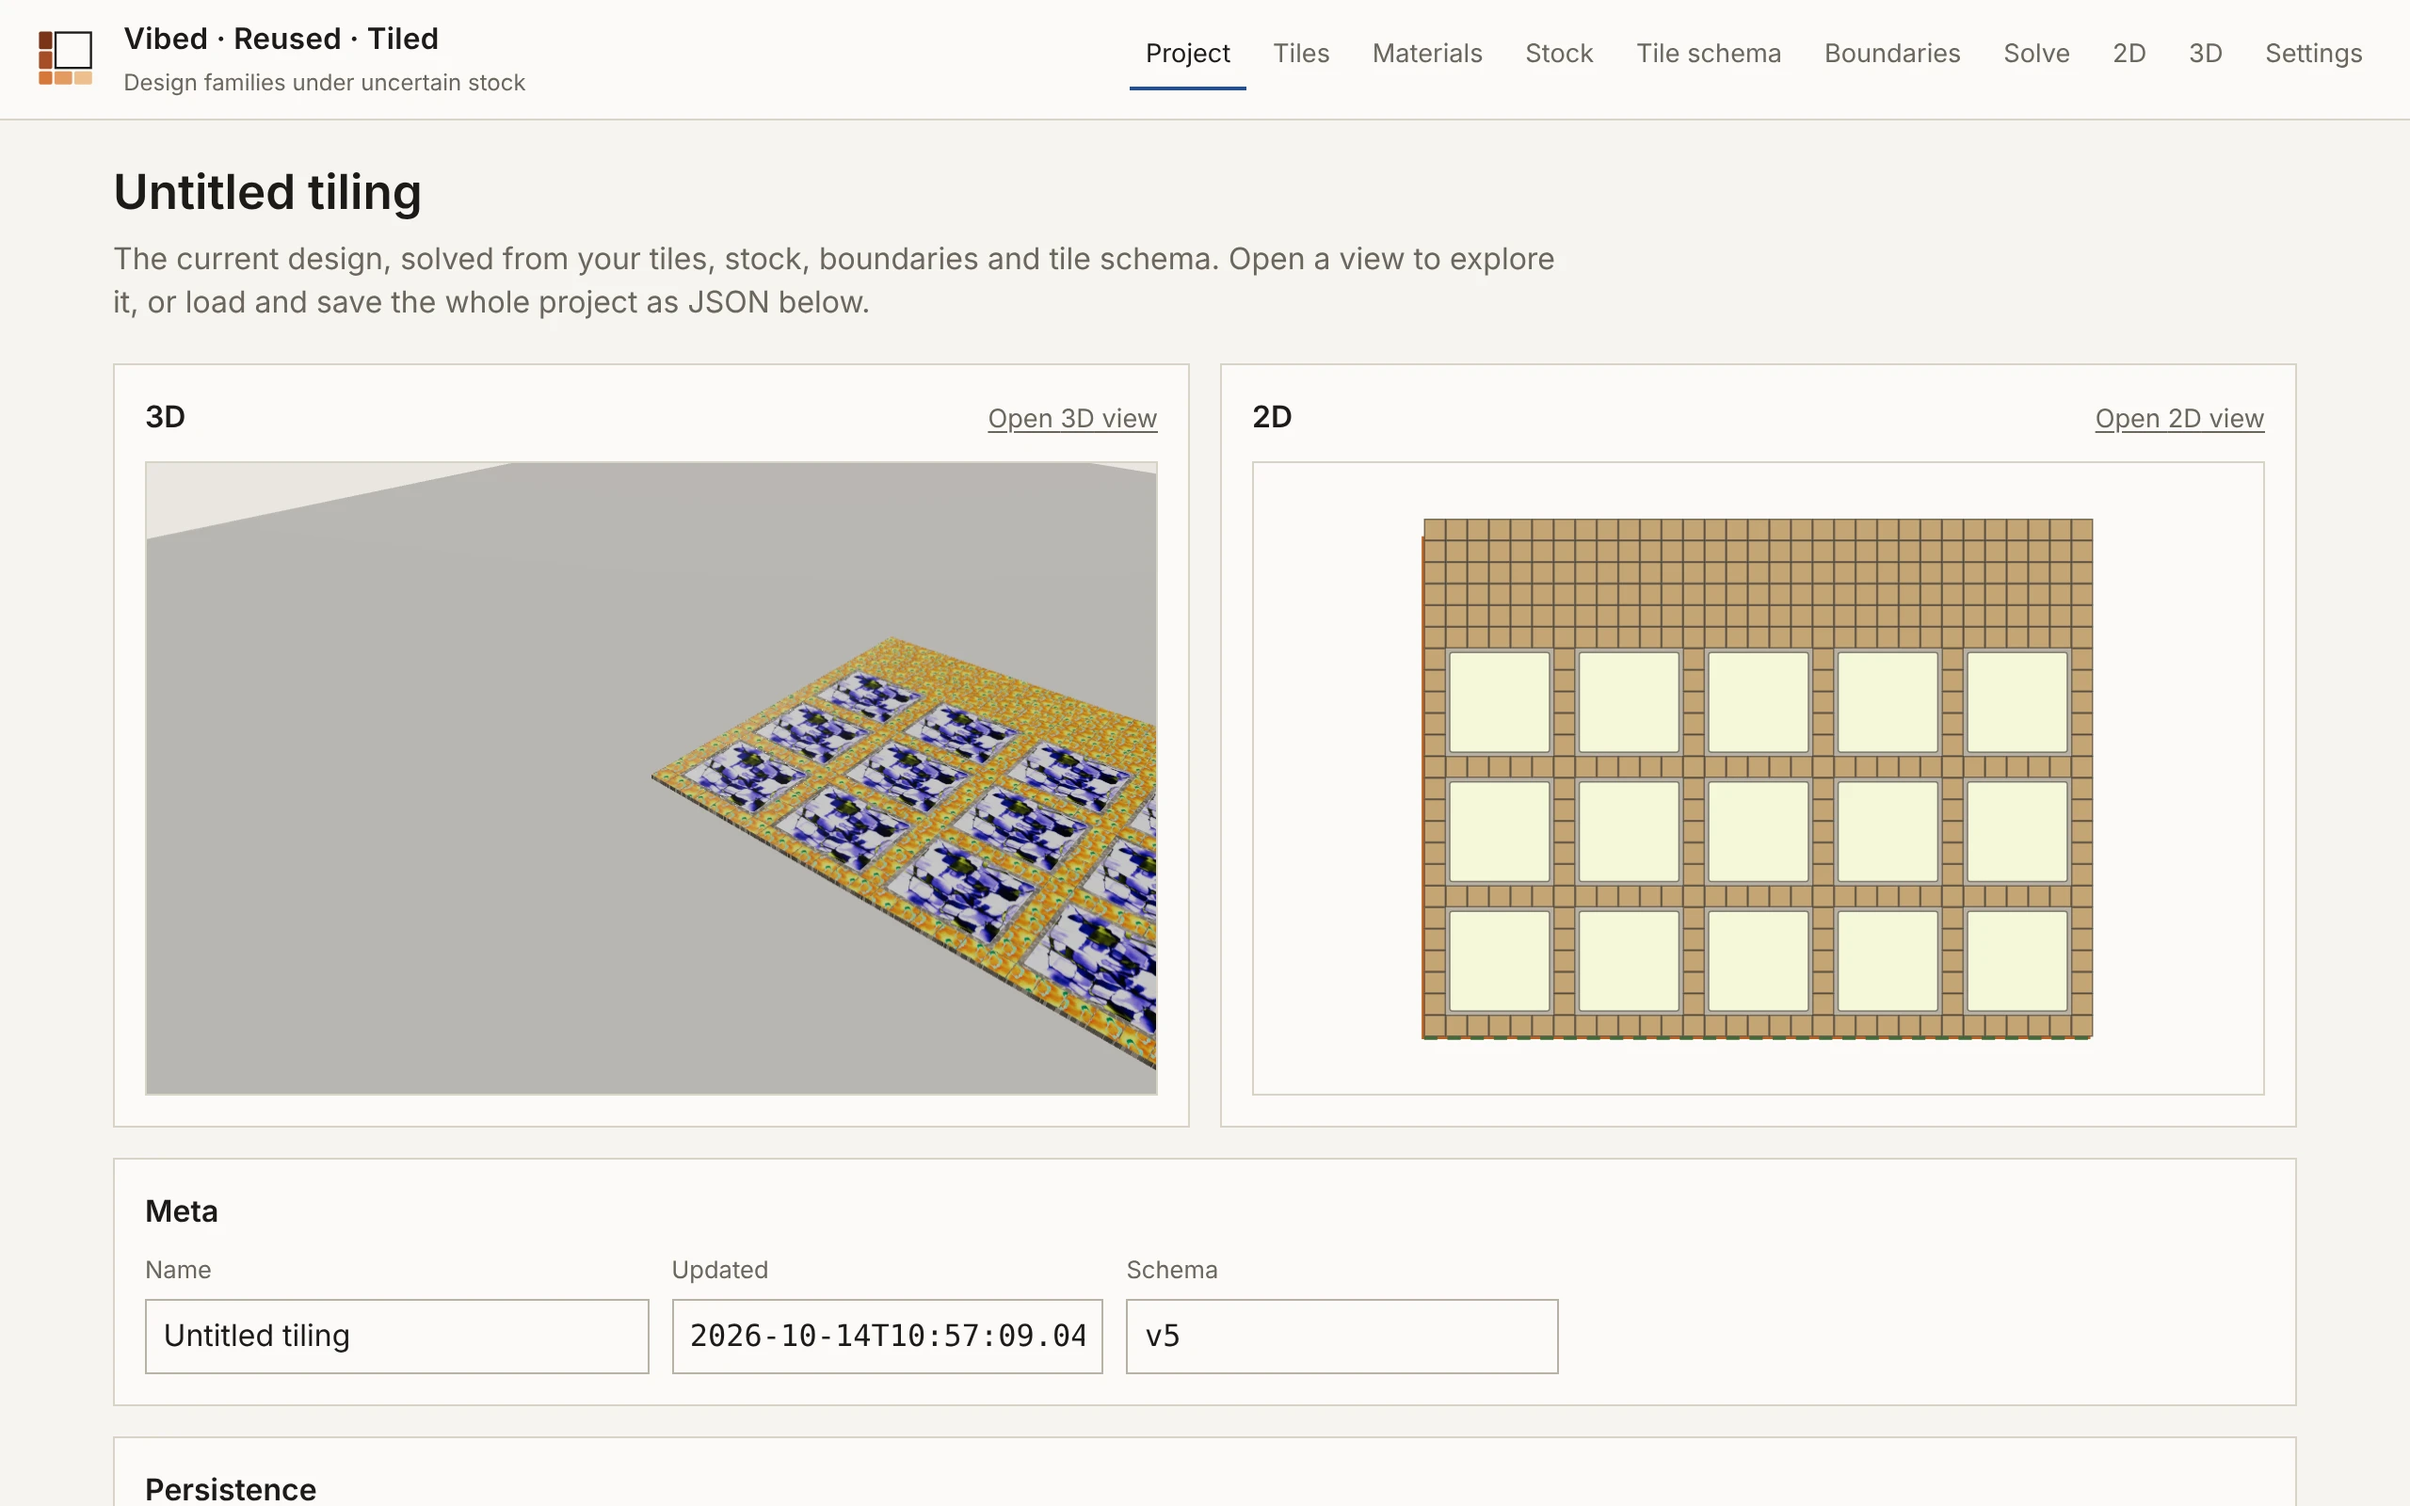
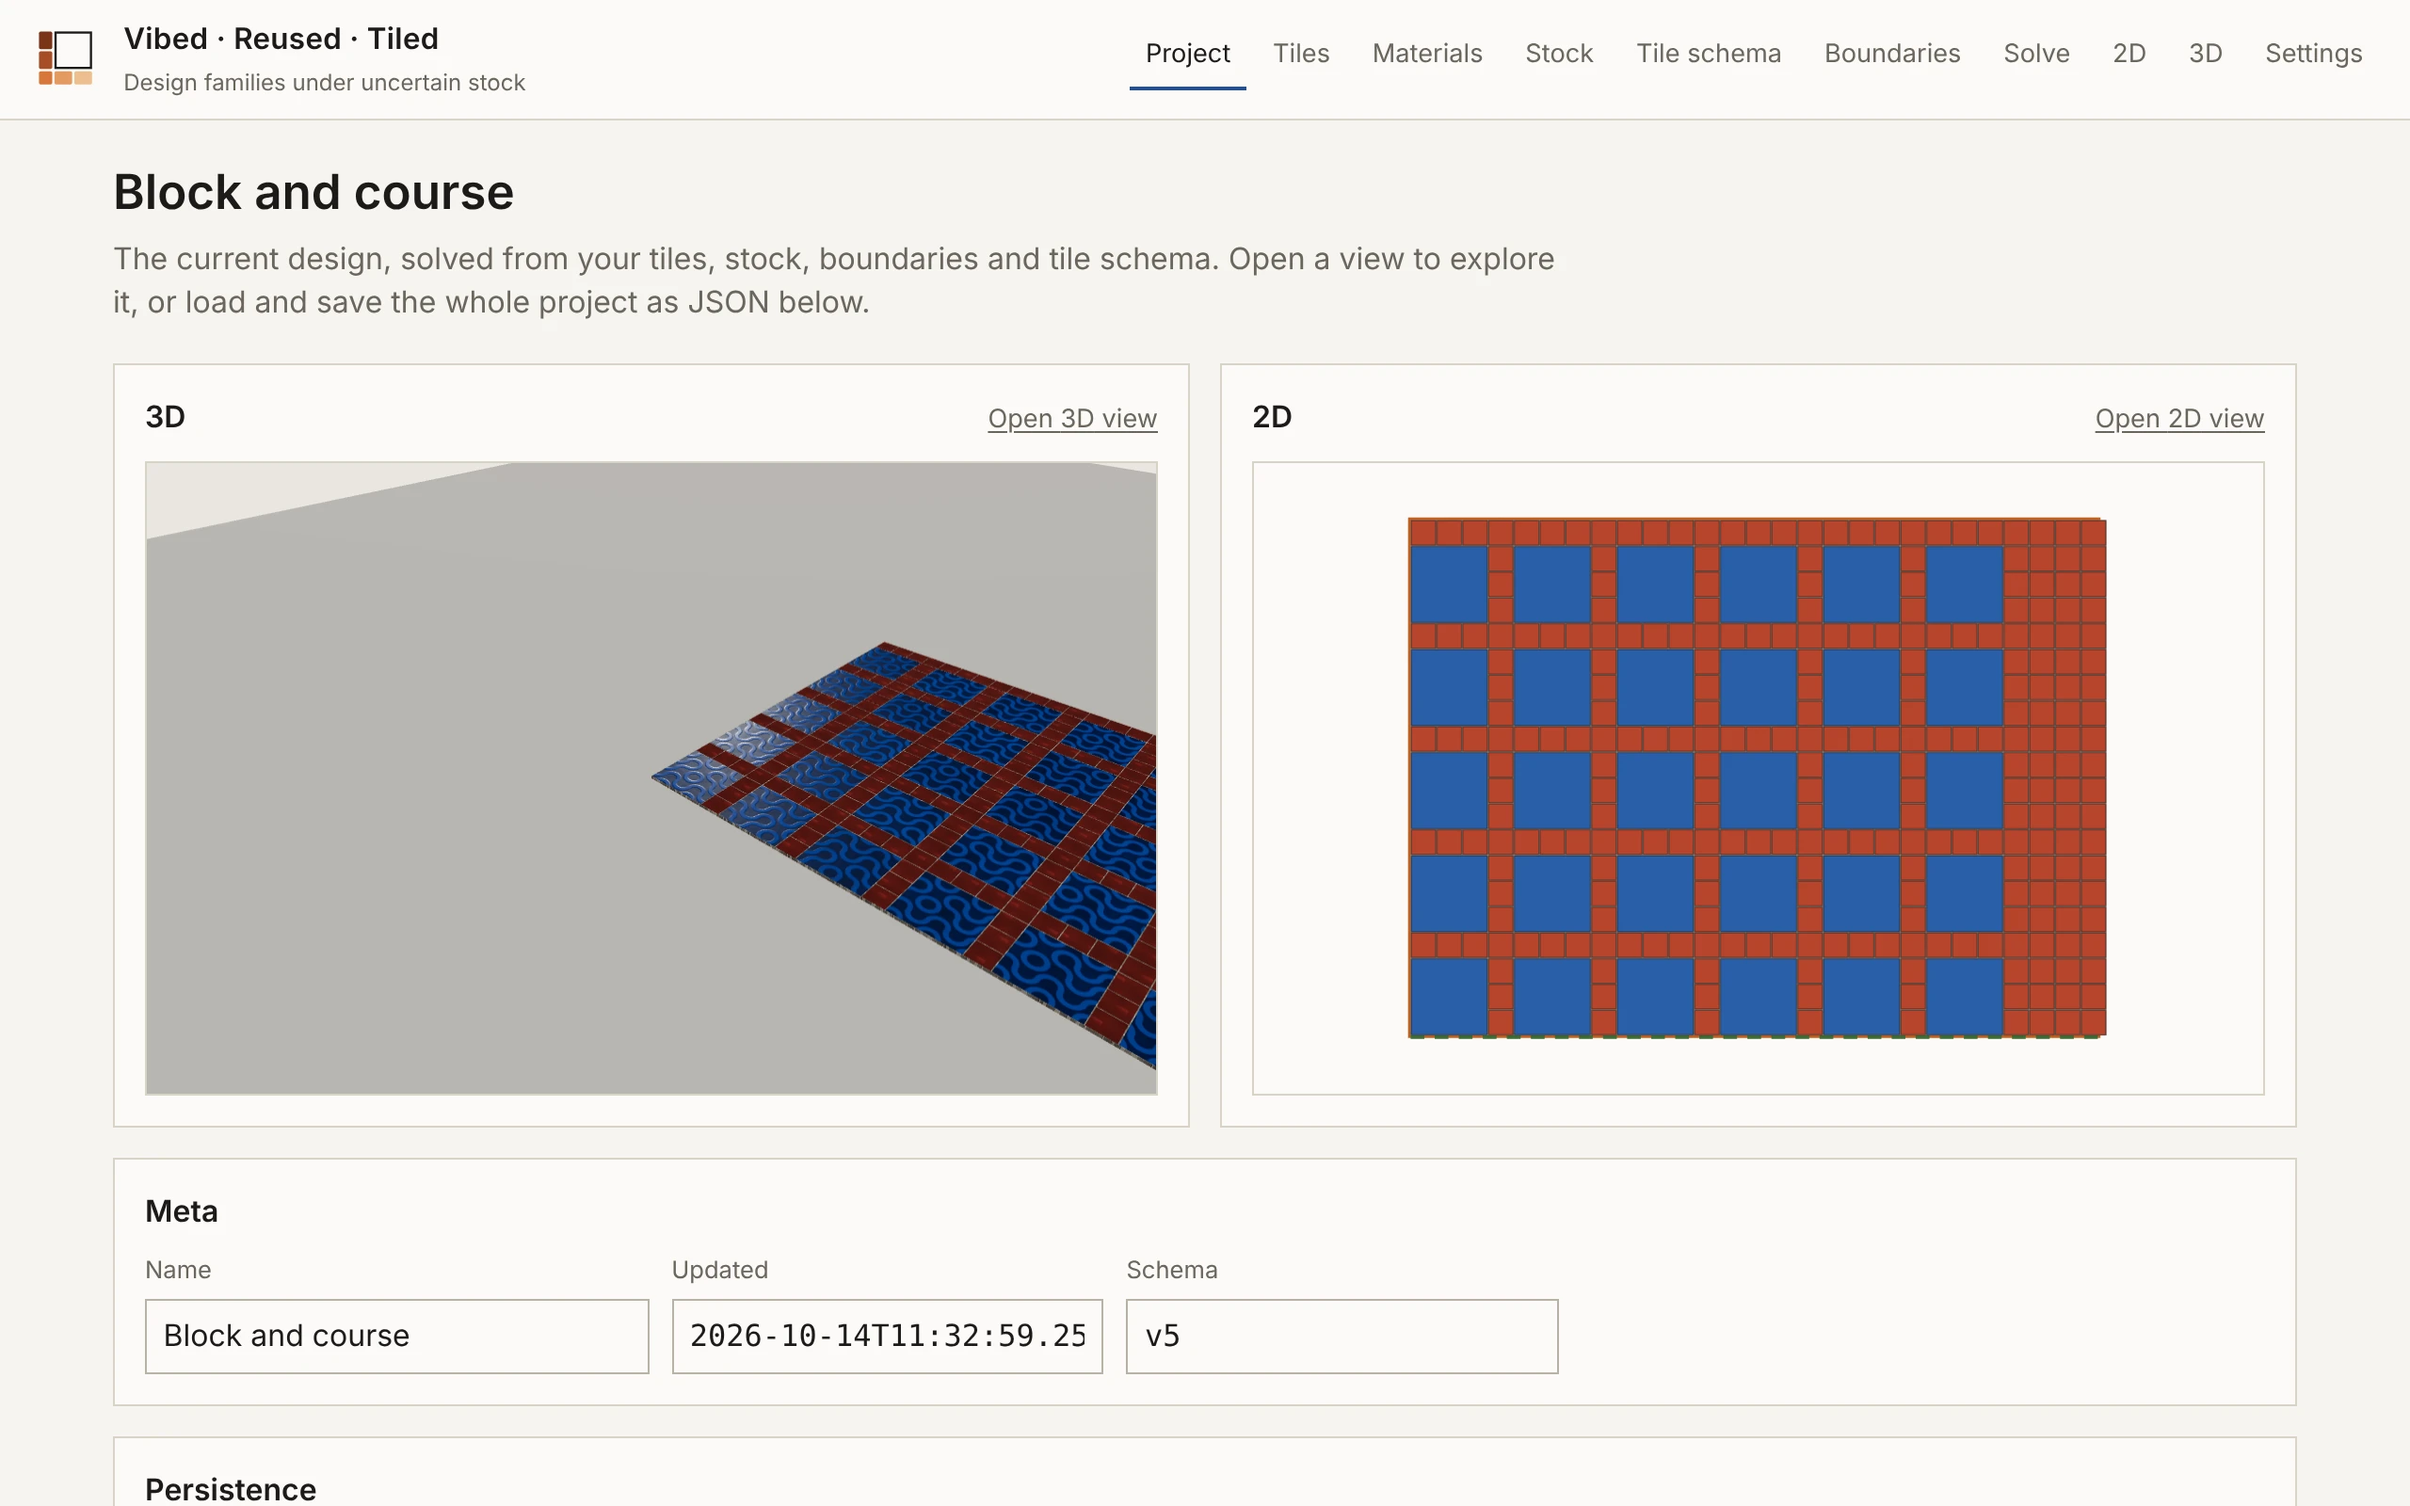
feat: red and blue example tilings on the vibed reused tiled page
- Four example projects made with the app's own pattern presets and
  materials (block and course in azulejo, basketweave in terracotta and
  zellige, staircase in encaustic, a checker), loaded into the app and
  rendered in its 3D view.
- The block and course render is the new title image; the step
  screenshots are retaken with that project.

Claude-Session: https://claude.ai/code/session_01R67X43o6hoJ583QKRRFCVk

diff --git a/src/data/projects/software/vibedReusedTiled.ts b/src/data/projects/software/vibedReusedTiled.ts
@@ -20,9 +20,12 @@ import tileSchema from './assets/vibed-reused-tiled/tile-schema.webp?responsive'
 import boundaries from './assets/vibed-reused-tiled/boundaries.webp?responsive';
 import solve from './assets/vibed-reused-tiled/solve.webp?responsive';
 import view2d from './assets/vibed-reused-tiled/view-2d.webp?responsive';
-import view3d from './assets/vibed-reused-tiled/view-3d.webp?responsive';
 import tileStockSampler from './assets/vibed-reused-tiled/tile-stock-sampler.webp?responsive';
 import tilePatterns from './assets/vibed-reused-tiled/tile-patterns.webp?responsive';
+import tilingBlockAndCourse from './assets/vibed-reused-tiled/tiling-block-and-course.webp?responsive';
+import tilingBasketweave from './assets/vibed-reused-tiled/tiling-basketweave.webp?responsive';
+import tilingStaircase from './assets/vibed-reused-tiled/tiling-staircase.webp?responsive';
+import tilingChecker from './assets/vibed-reused-tiled/tiling-checker.webp?responsive';
 
 const id = '2026-08';
 
@@ -60,7 +63,7 @@ const metaData: ProjectMetaData = {
 export const vibedReusedTiled: ProjectData = {
   id,
   metaData,
-  projectImage: createTitleImage(view3d, metaData.name, 'black-on-white'),
+  projectImage: createTitleImage(tilingBlockAndCourse, metaData.name),
   projectContent: [
     createText(
       2,
@@ -99,6 +102,19 @@ export const vibedReusedTiled: ProjectData = {
     {
       ...createImage(logo, 'Logo rendered with SVG SDF © J.W.'),
       link: { href: logoSettings, title: 'Open these settings in the playground' }
+    },
+    createText(1, [
+      'Example tilings',
+      'A few red and blue projects made in the app, each from one of its pattern presets, with terracotta, zellige, azulejo and encaustic materials. Rendered in the 3D view.'
+    ]),
+    {
+      type: ProjectContentType.ImageGrid,
+      images: [
+        view(tilingBlockAndCourse, 'Block and course', 'app/#/view/3d'),
+        view(tilingBasketweave, 'Basketweave', 'app/#/view/3d'),
+        view(tilingStaircase, 'Staircase', 'app/#/view/3d'),
+        view(tilingChecker, 'Checker', 'app/#/view/3d')
+      ]
     },
     {
       type: ProjectContentType.ImageGrid,
